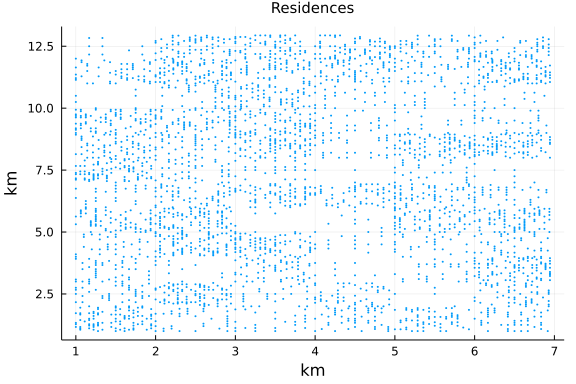
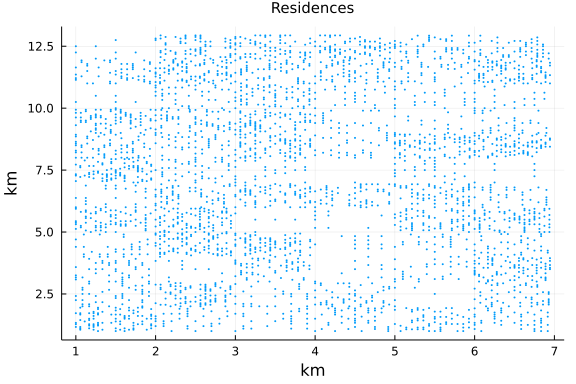
update weaved random scenario

diff --git a/docs/src/examples/random_scenario.md b/docs/src/examples/random_scenario.md
@@ -81,7 +81,7 @@ res_size_distribution = [10, 22, 33, 22, 5, 5, 2, 1] |> v -> Weights(v / sum(v))
 ```
 
 ```
-8-element Weights{Float64, Float64, Vector{Float64}}:
+8-element StatsBase.Weights{Float64, Float64, Vector{Float64}}:
  0.1
  0.22
  0.33
@@ -128,7 +128,7 @@ end
 ```
 
 ```
-101-element Weights{Float64, Float64, Vector{Float64}}:
+101-element StatsBase.Weights{Float64, Float64, Vector{Float64}}:
  0.0011532894698904953
  0.0022606780188793485
  0.0033228576206484946
@@ -275,12 +275,12 @@ res_blocks_distrib = EpiSiming.gen_res_blocks(pop_blocks, res_size_distribution)
 
 ```
 6×12 Matrix{Vector{Int64}}:
- [9, 18, 31, 19, 4, 4, 1, 0]  …  [1, 4, 4, 1, 0, 0, 0, 0]
- [3, 9, 11, 7, 1, 2, 0, 0]       [6, 14, 20, 14, 3, 4, 1, 0]
- [3, 5, 7, 6, 1, 2, 0, 0]        [7, 15, 23, 15, 4, 3, 1, 0]
- [6, 12, 14, 10, 2, 2, 0, 0]     [8, 16, 25, 16, 3, 4, 1, 0]
- [6, 16, 20, 12, 2, 2, 1, 0]     [5, 11, 19, 11, 2, 2, 0, 0]
- [4, 11, 15, 10, 2, 2, 1, 0]  …  [5, 13, 18, 10, 3, 2, 0, 0]
+ [8, 18, 28, 19, 6, 4, 1, 0]  …  [0, 2, 3, 3, 0, 0, 0, 0]
+ [4, 6, 12, 9, 1, 1, 0, 0]       [8, 13, 22, 14, 3, 3, 1, 0]
+ [4, 5, 10, 5, 1, 1, 0, 0]       [8, 15, 23, 16, 3, 3, 1, 0]
+ [4, 10, 14, 10, 2, 3, 0, 0]     [7, 18, 23, 15, 3, 4, 2, 0]
+ [7, 14, 19, 12, 2, 3, 1, 0]     [6, 13, 15, 11, 2, 2, 1, 0]
+ [5, 10, 16, 10, 3, 2, 0, 0]  …  [5, 12, 19, 11, 2, 2, 0, 0]
 ```
 
 
@@ -330,7 +330,7 @@ residences = EpiSiming.gen_residences(rng, res_blocks_distrib)
 ```
 
 ```
-3299-element EpiSiming.Residences{Int64, Float64}:
+3303-element EpiSiming.Residences{Int64, Float64}:
  (1, (1.5555555555555556, 1.3888888888888888), 1, [1])
  (1, (1.5, 1.0), 1, [2])
  (1, (1.5, 1.5), 1, [3])
@@ -339,21 +339,21 @@ residences = EpiSiming.gen_residences(rng, res_blocks_distrib)
  (1, (1.3333333333333333, 1.7777777777777777), 1, [6])
  (1, (1.5555555555555556, 1.0555555555555556), 1, [7])
  (1, (1.5555555555555556, 1.2777777777777777), 1, [8])
- (1, (1.6111111111111112, 1.6111111111111112), 1, [9])
- (1, (1.7222222222222223, 1.7222222222222223), 2, [10, 11])
+ (1, (1.6111111111111112, 1.6111111111111112), 2, [9, 10])
+ (1, (1.7222222222222223, 1.7222222222222223), 2, [11, 12])
  ⋮
- (72, (6.142857142857143, 12.285714285714286), 4, [9958, 9959, 9960, 9961])
- (72, (6.0, 12.571428571428571), 4, [9962, 9963, 9964, 9965])
- (72, (6.357142857142857, 12.857142857142858), 4, [9966, 9967, 9968, 9969])
- (72, (6.928571428571429, 12.142857142857142), 4, [9970, 9971, 9972, 9973])
- (72, (6.071428571428571, 12.214285714285714), 5, [9974, 9975, 9976, 9977, 
-9978])
- (72, (6.428571428571429, 12.071428571428571), 5, [9979, 9980, 9981, 9982, 
+ (72, (6.785714285714286, 12.142857142857142), 4, [9959, 9960, 9961, 9962])
+ (72, (6.142857142857143, 12.071428571428571), 4, [9963, 9964, 9965, 9966])
+ (72, (6.785714285714286, 12.857142857142858), 4, [9967, 9968, 9969, 9970])
+ (72, (6.571428571428571, 12.071428571428571), 4, [9971, 9972, 9973, 9974])
+ (72, (6.642857142857143, 12.142857142857142), 4, [9975, 9976, 9977, 9978])
+ (72, (6.642857142857143, 12.285714285714286), 5, [9979, 9980, 9981, 9982, 
 9983])
- (72, (6.857142857142857, 12.857142857142858), 5, [9984, 9985, 9986, 9987, 
+ (72, (6.285714285714286, 12.642857142857142), 5, [9984, 9985, 9986, 9987, 
 9988])
- (72, (6.857142857142857, 12.5), 6, [9989, 9990, 9991, 9992, 9993, 9994])
- (72, (6.214285714285714, 12.214285714285714), 6, [9995, 9996, 9997, 9998, 
+ (72, (6.071428571428571, 12.214285714285714), 6, [9989, 9990, 9991, 9992, 
+9993, 9994])
+ (72, (6.785714285714286, 12.214285714285714), 6, [9995, 9996, 9997, 9998, 
 9999, 10000])
 ```
 
@@ -422,44 +422,44 @@ population = EpiSiming.gen_population(
 
 ```
 10000-element EpiSiming.Population{Int64, EpiSiming.Phase}:
- (S, 1, 1, (1.5694444444444444, 1.3888888888888888), 12, 0.8429668909281123
+ (S, 1, 1, (1.5694444444444444, 1.3888888888888888), 22, 0.8429668909281123
 , 1.0871421914278978, Dict{Symbol, Int64}(), Dict{Symbol, Int64}())
- (S, 1, 2, (1.5138888888888888, 1.0), 55, 0.6346032739780121, 0.92885542105
+ (S, 1, 2, (1.5138888888888888, 1.0), 10, 0.6346032739780121, 0.92885542105
 81556, Dict{Symbol, Int64}(), Dict{Symbol, Int64}())
- (S, 1, 3, (1.5138888888888888, 1.5), 67, 1.866136384893467, 0.637995824026
+ (S, 1, 3, (1.5138888888888888, 1.5), 14, 1.866136384893467, 0.637995824026
 4992, Dict{Symbol, Int64}(), Dict{Symbol, Int64}())
- (S, 1, 4, (1.7361111111111112, 1.2222222222222223), 18, 1.9630070493538805
+ (S, 1, 4, (1.7361111111111112, 1.2222222222222223), 35, 1.9630070493538805
 , 0.49089045628844613, Dict{Symbol, Int64}(), Dict{Symbol, Int64}())
- (S, 1, 5, (1.9583333333333333, 1.5), 21, 0.17974072857925905, 0.9196908284
+ (S, 1, 5, (1.9583333333333333, 1.5), 22, 0.17974072857925905, 0.9196908284
 361106, Dict{Symbol, Int64}(), Dict{Symbol, Int64}())
- (S, 1, 6, (1.347222222222222, 1.7777777777777777), 10, 0.8018440204599591,
+ (S, 1, 6, (1.347222222222222, 1.7777777777777777), 36, 0.8018440204599591,
  0.8572836161482715, Dict{Symbol, Int64}(), Dict{Symbol, Int64}())
- (S, 1, 7, (1.5694444444444444, 1.0555555555555556), 14, 0.7121991800323644
+ (S, 1, 7, (1.5694444444444444, 1.0555555555555556), 21, 0.7121991800323644
 , 1.4273823226339426, Dict{Symbol, Int64}(), Dict{Symbol, Int64}())
- (S, 1, 8, (1.5694444444444444, 1.2777777777777777), 35, 0.7803803598677808
+ (S, 1, 8, (1.5694444444444444, 1.2777777777777777), 51, 0.7803803598677808
 , 0.7458566679008322, Dict{Symbol, Int64}(), Dict{Symbol, Int64}())
- (S, 1, 9, (1.625, 1.6111111111111112), 23, 0.7533507391116316, 1.059750152
+ (S, 1, 9, (1.625, 1.6111111111111112), 32, 0.7533507391116316, 1.059750152
 7579962, Dict{Symbol, Int64}(), Dict{Symbol, Int64}())
- (S, 1, 10, (1.7361111111111112, 1.7222222222222223), 36, 1.058378472594778
-5, 0.6163376056877701, Dict{Symbol, Int64}(), Dict{Symbol, Int64}())
+ (S, 1, 9, (1.5972222222222223, 1.6111111111111112), 41, 1.0583784725947785
+, 0.6163376056877701, Dict{Symbol, Int64}(), Dict{Symbol, Int64}())
  ⋮
- (S, 1, 3298, (6.8392857142857135, 12.5), 17, 0.7425559871162212, 1.8785291
-97903739, Dict{Symbol, Int64}(), Dict{Symbol, Int64}())
- (S, 1, 3298, (6.848214285714286, 12.484535260646707), 41, 1.34674187151745
-64, 0.6158224898743601, Dict{Symbol, Int64}(), Dict{Symbol, Int64}())
- (S, 1, 3298, (6.866071428571428, 12.484535260646707), 23, 0.57132546847696
-75, 1.2604338561736381, Dict{Symbol, Int64}(), Dict{Symbol, Int64}())
- (S, 1, 3299, (6.232142857142858, 12.214285714285714), 59, 0.71166954083545
+ (S, 1, 3302, (6.053571428571428, 12.214285714285714), 63, 0.74255598711622
+12, 1.878529197903739, Dict{Symbol, Int64}(), Dict{Symbol, Int64}())
+ (S, 1, 3302, (6.0625, 12.19882097493242), 14, 1.3467418715174564, 0.615822
+4898743601, Dict{Symbol, Int64}(), Dict{Symbol, Int64}())
+ (S, 1, 3302, (6.080357142857142, 12.19882097493242), 23, 0.571325468476967
+5, 1.2604338561736381, Dict{Symbol, Int64}(), Dict{Symbol, Int64}())
+ (S, 1, 3303, (6.803571428571429, 12.214285714285714), 49, 0.71166954083545
 , 0.6573989249359745, Dict{Symbol, Int64}(), Dict{Symbol, Int64}())
- (S, 1, 3299, (6.223214285714286, 12.229750453639006), 63, 0.92991235018423
+ (S, 1, 3303, (6.794642857142857, 12.229750453639006), 15, 0.92991235018423
 87, 0.5603267260793015, Dict{Symbol, Int64}(), Dict{Symbol, Int64}())
- (S, 1, 3299, (6.205357142857143, 12.229750453639006), 14, 0.34954787053977
+ (S, 1, 3303, (6.776785714285714, 12.229750453639006), 36, 0.34954787053977
 54, 0.7703472343146436, Dict{Symbol, Int64}(), Dict{Symbol, Int64}())
- (S, 1, 3299, (6.196428571428571, 12.214285714285714), 23, 0.69468128433558
+ (S, 1, 3303, (6.767857142857142, 12.214285714285714), 47, 0.69468128433558
 63, 2.073824042353887, Dict{Symbol, Int64}(), Dict{Symbol, Int64}())
- (S, 1, 3299, (6.205357142857143, 12.19882097493242), 49, 1.129377778543976
+ (S, 1, 3303, (6.776785714285714, 12.19882097493242), 49, 1.129377778543976
 5, 1.4010740192330449, Dict{Symbol, Int64}(), Dict{Symbol, Int64}())
- (S, 1, 3299, (6.223214285714286, 12.19882097493242), 14, 0.895945420465046
+ (S, 1, 3303, (6.794642857142857, 12.19882097493242), 11, 0.895945420465046
 4, 1.9864694366090996, Dict{Symbol, Int64}(), Dict{Symbol, Int64}())
 ```
 
@@ -721,9 +721,9 @@ population.phase[exposed_at_time_0] .= EXPOSED
 ```
 
 ```
-20-element view(::Vector{EpiSiming.Phase}, [3568, 9472, 9583, 1145, 3449, 4
-763, 8785, 5427, 9500, 8014, 3970, 7360, 2089, 9943, 3472, 799, 6673, 2556,
- 6251, 4044]) with eltype EpiSiming.Phase:
+20-element view(::Vector{EpiSiming.Phase}, [3449, 4763, 8785, 5427, 9500, 8
+014, 3970, 7360, 2089, 9943, 3472, 799, 6673, 2556, 6251, 4044, 4107, 3420,
+ 1402, 9010]) with eltype EpiSiming.Phase:
  E
  E
  E
@@ -783,29 +783,29 @@ time_step = 1
 ```
 
 ```
-2.668842 seconds (2.82 k allocations: 20.293 MiB)
-  0.265407 seconds (2 allocations: 19.766 KiB)
+2.451263 seconds (2.75 k allocations: 20.290 MiB)
+  0.280329 seconds (2 allocations: 19.766 KiB)
 360×7 Matrix{Int64}:
- 9980  20   0  0     0   0  0
- 9980  15   1  4     0   0  0
- 9976  13   3  8     0   0  0
- 9973  14   3  8     2   0  0
- 9969  16   4  7     4   0  0
- 9964  17   6  8     5   0  0
- 9963  12   9  9     7   0  0
- 9961  13  10  7     9   0  0
- 9956  14   9  8    13   0  0
- 9952  15  10  7    16   0  0
-    ⋮                    ⋮  
- 4661   5   9  3  5278  44  0
- 4660   4   9  4  5279  44  0
- 4660   3  10  3  5280  44  0
- 4660   3   8  3  5282  44  0
- 4657   5   9  2  5283  44  0
- 4657   4   8  3  5284  44  0
- 4655   6   8  3  5284  44  0
- 4652   6  10  3  5285  44  0
- 4651   6   7  2  5290  44  0
+ 9980  20  0  0     0   0  0
+ 9980  16  0  4     0   0  0
+ 9977  13  2  8     0   0  0
+ 9975  11  2  9     3   0  0
+ 9973  12  2  8     5   0  0
+ 9966  17  2  8     7   0  0
+ 9965  13  4  8    10   0  0
+ 9962  13  6  8    11   0  0
+ 9956  15  6  9    14   0  0
+ 9947  22  5  8    18   0  0
+    ⋮                   ⋮  
+ 4721   0  0  0  5234  45  0
+ 4721   0  0  0  5234  45  0
+ 4721   0  0  0  5234  45  0
+ 4721   0  0  0  5234  45  0
+ 4721   0  0  0  5234  45  0
+ 4721   0  0  0  5234  45  0
+ 4721   0  0  0  5234  45  0
+ 4721   0  0  0  5234  45  0
+ 4721   0  0  0  5234  45  0
 ```
 
 
